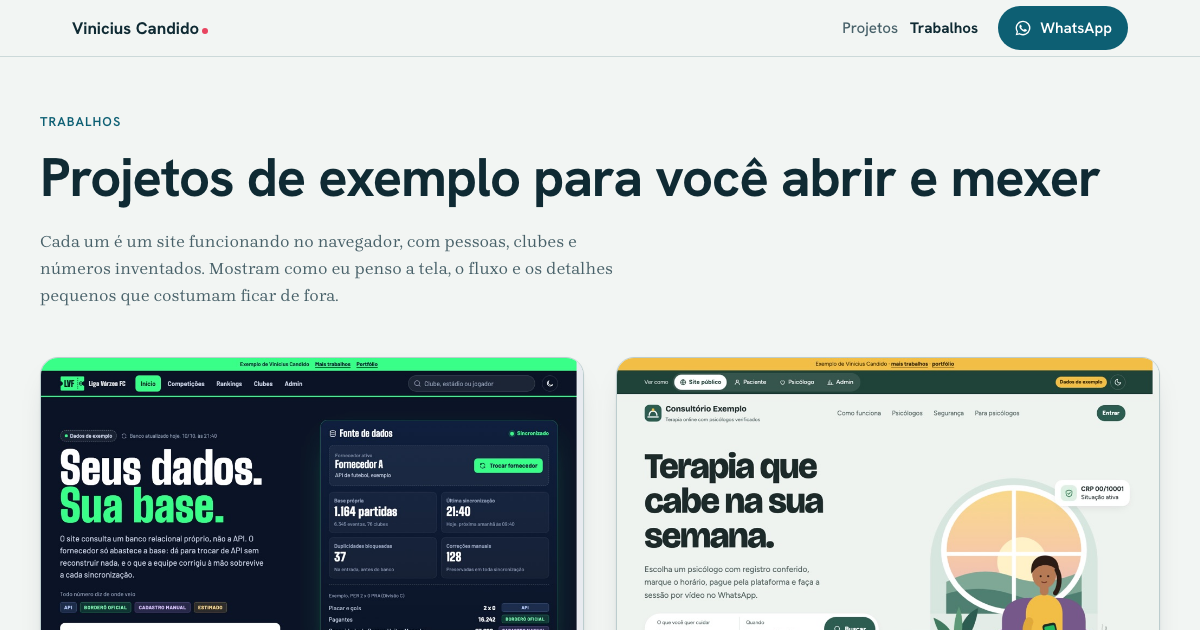
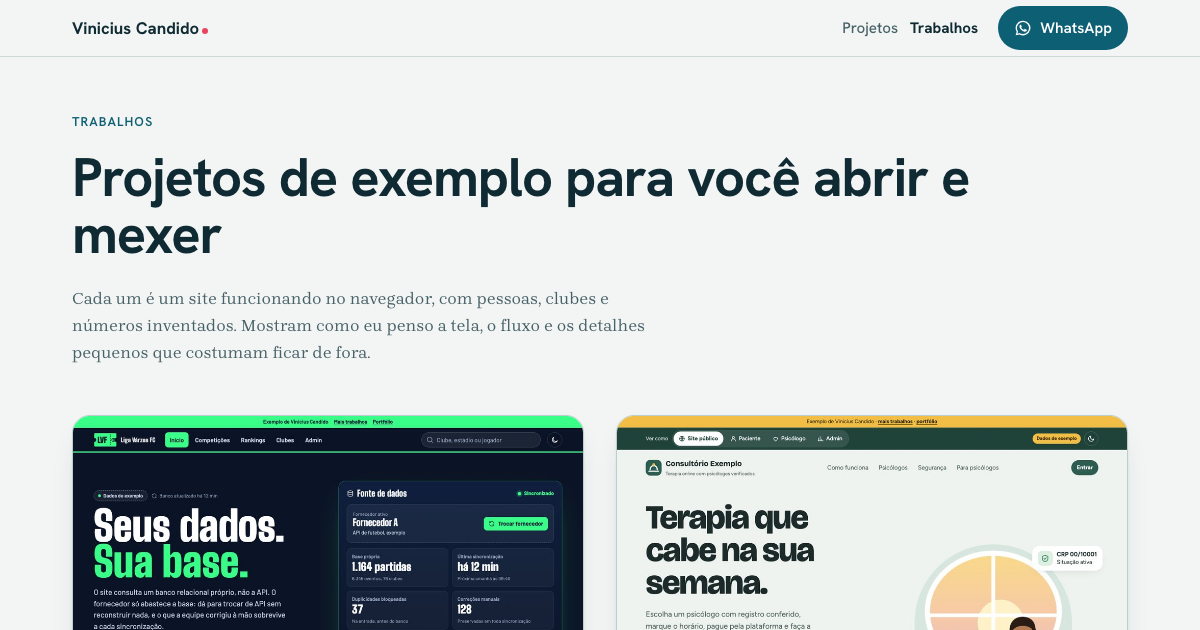
fix(trabalhos): WhatsApp do consultório como faixa sempre visível, CRP dos cartões pela regra única, og da página geral regerado

diff --git a/public/trabalhos/consultorio-exemplo/index.html b/public/trabalhos/consultorio-exemplo/index.html
@@ -644,6 +644,14 @@ html.trocando body{touch-action:none;pointer-events:none}
 }
 @media(max-width:959px) and (prefers-reduced-motion:reduce){html{scroll-behavior:auto}}
 @media(prefers-reduced-motion:reduce){#view,.filters,.sh-bg{transition:none!important}}
+/* WhatsApp do desenvolvedor como faixa fixa, sempre visível, com espaço reservado no fim do conteúdo (nada passa por baixo do botão) */
+.dev,.dev:hover{left:0;right:0;bottom:0;transform:none;width:auto;height:52px;border-radius:0;justify-content:center;padding:0 16px;gap:12px;box-shadow:0 -8px 24px -14px rgba(0,0,0,.5)}
+.dev::before{display:none}
+.dev>span:last-child{display:block!important}
+.dev .wa-c{width:36px;height:36px}
+body{padding-bottom:calc(var(--barra,0px) + 64px + env(safe-area-inset-bottom))}
+@media(max-width:700px){.dev,.dev:hover{left:0;right:0;bottom:calc(var(--barra) + env(safe-area-inset-bottom));height:44px;padding:0 12px;gap:10px}
+ .dev .wa-c{width:32px;height:32px}.dev small{display:none}.toast{bottom:calc(var(--barra) + 64px + env(safe-area-inset-bottom))!important}}
 </style>
 <script>(function(c,l,a,r,i,t,y){c[a]=c[a]||function(){(c[a].q=c[a].q||[]).push(arguments)};t=l.createElement(r);t.async=1;t.src="https://www.clarity.ms/tag/"+i;y=l.getElementsByTagName(r)[0];y.parentNode.insertBefore(t,y);})(window,document,"clarity","script","yvd0mxjdrs");clarity("set","pagina","trabalho-consultorio-exemplo");</script>
 </head>
@@ -909,9 +917,9 @@ const PRO_ART=f=>{const a=Math.round(2*Math.PI*70*(100-f)/100);return `<svg view
 function cardPsi(p){
   return `<article class="pcard">
    <div class="pcard-top" style="background:${BG[p.av.b]}">${avatar(p.av,false)}
-     <span class="crp" title="Última conferência automática: 0${(p.id%5)+3}/10/2026">${ic('shieldc')}CRP verificado</span><span class="price">${brl(p.preco)}</span></div>
+     <span class="crp" title="Última conferência automática: ${CRP_REGRA.ultima}">${ic('shieldc')}CRP verificado</span><span class="price">${brl(p.preco)}</span></div>
    <div class="pcard-b">
-     <div><h3>${p.nome}</h3><div class="meta">${p.ab} · ${p.crp} · ${p.anos} anos de prática</div><div class="meta" style="font-size:13px">Registro conferido em 0${(p.id%5)+3}/10/2026</div></div>
+     <div><h3>${p.nome}</h3><div class="meta">${p.ab} · ${p.crp} · ${p.anos} anos de prática</div><div class="meta" style="font-size:13px">Registro conferido em ${CRP_REGRA.ultima}</div></div>
      <div class="rate">${stars(p.nota)}<b>${p.nota.toFixed(1).replace('.',',')}</b><span class="meta">(${p.n} avaliações)</span></div>
      <p class="quote">${p.q}</p>
      <div class="chips">${p.temas.map(t=>`<span class="chip">${t}</span>`).join('')}</div>
@@ -920,7 +928,7 @@ function cardPsi(p){
    </div></article>`;
 }
 function filtered(){const f=S.filt;return PSIS.filter(p=>(!f.ab||p.ab===f.ab)&&(!f.tema||p.temas.includes(f.tema))&&p.preco<=f.max&&(!f.turno||p.turnos.includes(f.turno)))}
-function renderCards(){const l=filtered();{const ok=$('#f-ok');if(ok)ok.textContent=l.length?`Ver ${l.length} ${l.length===1?'psicólogo':'psicólogos'}`:'Nenhum resultado, ajuste os filtros';const fn=$('#f-n'),k=[S.filt.ab,S.filt.tema,S.filt.turno].filter(Boolean).length+(S.filt.max<200?1:0);if(fn)fn.textContent=k?` (${k})`:''}$('#count').textContent=`${l.length} ${l.length===1?'psicólogo encontrado':'psicólogos encontrados'}`;
+function renderCards(){const l=filtered();{const ok=$('#f-ok');if(ok)ok.textContent=l.length?`Ver ${l.length} ${l.length===1?'psicólogo':'psicólogos'}`:'Nenhum resultado, ajuste os filtros';const fn=$('#f-n'),k=[S.filt.ab,S.filt.tema,S.filt.turno].filter(Boolean).length+(S.filt.max<200?1:0);if(fn)fn.textContent=k?` (${k})`:''}$('#count').textContent=`${l.length} de 57 psicólogos (perfis de exemplo)`;
   $('#cards').innerHTML=l.length?l.map(cardPsi).join(''):`<div class="empty" style="grid-column:1/-1"><b>Nenhum perfil com esses filtros.</b><p class="meta mt">Aumente o valor máximo ou tire o filtro de horário.</p><button class="btn btn-g btn-sm mt" id="clr">Limpar filtros</button></div>`}
 const abs=[...new Set(PSIS.map(p=>p.ab))],temas=[...new Set(PSIS.flatMap(p=>p.temas))].sort();
 
@@ -1272,7 +1280,7 @@ function psi(){
     const prox=lista.find(c=>c.h>HOJE.agora);
     const mins=prox?(+prox.h.slice(0,2)*60+ +prox.h.slice(3))-(+HOJE.agora.slice(0,2)*60+ +HOJE.agora.slice(3)):0;
     b=`<h2 class="ttl">Consultas de hoje</h2><p class="lead">${cap1(NSEM[wdN(HOJE.d)])}, ${HOJE.d} de outubro. Pacientes identificados só pelo primeiro nome e inicial.</p>
-    <div class="grid-k"><div class="kpi hl"><span>${ic('today')}Hoje</span><b>${lista.length} sessões</b><small>${pagas} pagas</small></div><div class="kpi"><span>${ic('clock')}Próxima</span><b>${prox?prox.h:'—'}</b><small>${prox?'em '+mins+' min':''}</small></div><div class="kpi"><span>${ic('wallet')}A receber hoje</span><b>${brl(me.preco*pagas*(100-fee)/100)}</b><small>já descontada a taxa</small></div><div class="kpi"><span>${ic('star')}Sua média</span><b>${me.nota.toFixed(1).replace('.',',')}</b><small>${me.n} avaliações</small></div></div>
+    <div class="grid-k"><div class="kpi hl"><span>${ic('today')}Hoje</span><b>${lista.length} sessões</b><small>${pagas} pagas</small></div><div class="kpi"><span>${ic('clock')}Próxima</span><b>${prox?prox.h:'—'}</b><small>${prox?'em '+mins+' min':''}</small></div><div class="kpi"><span>${ic('wallet')}Gerado hoje</span><b>${brl(me.preco*pagas*(100-fee)/100)}</b><small>cai em ${ddmm(proxSex(HOJE.d))} · já descontada a taxa</small></div><div class="kpi"><span>${ic('star')}Sua média</span><b>${me.nota.toFixed(1).replace('.',',')}</b><small>${me.n} avaliações</small></div></div>
     <div class="panel mt"><div class="list">${lista.map((c,i)=>`<div class="row"><b style="font-family:var(--f-d);font-size:22px;min-width:64px">${c.h}</b>${avatar({s:i+1,h:i,b:i+2,c:i+1,hair:i%5})}<div class="grow"><b>${c.pac}</b><small>${c.pg==='pendente'?'Aguardando pagamento':tipoC(c)}</small></div>
      ${c.pg==='pendente'?`<span class="pill p-warn">Aguardando pagamento</span>`:`<button class="btn btn-wa btn-sm" data-wa-psi="${c.pac}">${WA}Abrir no WhatsApp</button><button class="btn btn-g btn-sm" data-done>${ic('check')}Realizada</button>`}</div>`).join('')}</div></div>`;
   }
@@ -1296,7 +1304,7 @@ function psi(){
     const UL=CONSULTAS.filter(c=>c.psi===1&&c.st==='realizada'&&c.d<HOJE.d).sort((a,b)=>-ordC(a,b))[0];
     const crit=['Chegou no horário','Respeitou os combinados','Conexão estável'];
     b=S.ratedPsi?`<div class="panel done"><div class="big-ic">${ic('check')}</div><h3>Avaliação registrada</h3><p>Fica visível só para a equipe da plataforma. Ajuda a cuidar de faltas, atrasos e problemas de conexão.</p><button class="btn btn-g" data-tab="hoje">Voltar às consultas</button></div>`
-    :`<h2 class="ttl">Avaliar o paciente</h2><p class="lead">Sessão de ontem, ${ddmm(UL.d)} às ${UL.h}, com ${UL.pac}. Avaliação interna, o paciente não vê.</p>
+    :`<h2 class="ttl">Avaliar o paciente</h2><p class="lead">Sessão de ontem, ${ddmm(UL.d)} às ${UL.h}, com ${UL.pac}${UL.pac.endsWith('.')?'':'.'} Avaliação interna, o paciente não vê.</p>
     <div class="alert info" style="margin-bottom:14px">${ic('lock')}<span><b>Só aparecem aqui sessões realizadas</b><small>As ${CONSULTAS.filter(c=>c.psi===1&&c.d===HOJE.d&&ativa(c)).length} sessões de hoje liberam a avaliação quando você marcar como realizadas.</small></span></div>
     <div class="panel"><div class="list">${crit.map((c,i)=>`<div class="row"><div class="grow"><b>${c}</b></div><div class="pay-t" style="margin:0;flex:0 0 auto"><button data-yn="${i}-s" aria-pressed="${(S.yn||{})[i]==='s'}">${ic('check')}Sim</button><button data-yn="${i}-n" aria-pressed="${(S.yn||{})[i]==='n'}">${ic('x')}Não</button></div></div>`).join('')}</div>
     <label class="fld mt">Observação para a equipe (sem conteúdo clínico)<textarea rows="3" placeholder="Ex.: entrou 15 minutos atrasado e pediu para remarcar"></textarea></label>
@@ -1398,7 +1406,7 @@ function trocar(f,jaTravado){
   fechaFiltros(true);
   if(REDUCED){f();topo();focaTitulo();soltar();return}
   travar();const t=setTimeout(soltar,1200);const fim=()=>{clearTimeout(t);soltar()};
-  if(document.startViewTransition){const v=document.startViewTransition(()=>{f();topo()});if(v.ready)v.ready.catch(()=>{});v.updateCallbackDone.then(focaTitulo,focaTitulo);v.finished.then(fim,fim)}
+  if(document.startViewTransition){const v=document.startViewTransition(()=>{f();topo()});if(v.ready)v.ready.catch(()=>{});v.updateCallbackDone.then(focaTitulo,focaTitulo).catch(()=>{});v.finished.then(fim,fim).catch(()=>{})}
   else{view.classList.add('sai');setTimeout(()=>{f();topo();view.classList.remove('sai');focaTitulo();setTimeout(fim,320)},140)}
 }
 function vt(f){trocar(f)}
@@ -1492,8 +1500,8 @@ render();
 })();
 /* no celular, o WhatsApp flutuante some enquanto o formulário de busca está na tela, para nunca cobrir o botão Buscar */
 (function(){const d=document.querySelector('.dev');if(!d)return;d.style.transition='opacity .2s';
-function chk(){const f=document.querySelector('.finder'),ft=document.querySelector('footer');let h=false;if(f&&innerWidth<700){const r=f.getBoundingClientRect();h=r.bottom>0&&r.top<innerHeight}if(ft){const r=ft.getBoundingClientRect();if(r.top<innerHeight-10&&r.bottom>0)h=true}
-  if(!h){const r=d.getBoundingClientRect();for(const fx of [.12,.5,.88])for(const fy of [.12,.5,.88]){const x=r.left+r.width*fx,y=r.top+r.height*fy;if(document.elementsFromPoint(x,y).some(e=>!d.contains(e)&&e.matches&&e.matches('.pill,button,a,td,th,b,small,input,select,textarea,h1,h2,h3,li,.kpi,.row,.tb,.wk')))h=true}}d.style.opacity=h?'0':'';d.style.pointerEvents=h?'none':''}
+function chk(){const f=document.querySelector('.finder'),ft=document.querySelector('footer'),dr=d.getBoundingClientRect(),ov=r=>Math.min(r.bottom,dr.bottom)-Math.max(r.top,dr.top)>10;let h=false;if(f&&ov(f.getBoundingClientRect()))h=true;if(ft&&ov(ft.getBoundingClientRect()))h=true
+  d.style.opacity=h?'0':'';d.style.pointerEvents=h?'none':''}
 addEventListener('scroll',chk,{passive:true});addEventListener('resize',chk);d.style.transition='opacity .15s';new MutationObserver(chk).observe(document.getElementById('view')||document.body,{childList:true,subtree:true});chk()})();
 </script>
 <script defer src="https://static.cloudflareinsights.com/beacon.min.js" data-cf-beacon='{"token": "5cf570991ace4598819c22a1718848e0"}'></script>

diff --git a/public/trabalhos/liga-varzea/index.html b/public/trabalhos/liga-varzea/index.html
@@ -1810,7 +1810,7 @@ V.admin=function(){usa("C");
   '<div class="card pad"><h3 style="margin-bottom:12px">Partidas sem borderô</h3><div class="tw"><table><thead><tr><th class="l">Partida</th><th>Rodada</th><th class="l">Estádio</th><th class="l">Situação</th></tr></thead><tbody>'+sem.map(function(m){return '<tr><td class="l"><a class="lnk" href="#/partida/'+m.id+'">'+esc(m.h.nome)+' '+m.gh+' x '+m.ga+' '+esc(m.a.nome)+'</a></td><td>'+m.r+'</td><td class="l">'+esc(m.est.nome)+'</td><td class="l"><span class="tag al">'+(m.r===18?"Aguardando federação":"Cobrado da federação")+'</span>'+(m.estim?' <span class="tag" title="Público divulgado pelo clube">~'+n(m.estim)+' estimado</span>':'')+'</td></tr>';}).join("")+'</tbody></table></div></div>'+
  '</div><aside class="grid">'+
   '<div class="card pad"><div style="display:flex;gap:12px;align-items:center;margin-bottom:8px">'+ico("sync","width:24px;height:24px")+'<h3>Log de sincronização</h3></div><ul class="log">'+
-   [["há 12 min","#13804A","Partidas da rodada 18","5 jogos atualizados, 1 sem borderô"],["há 12 min","#E0A800","Borderôs","3 PDFs lidos, 1 divergência de público"],["há 40 min","#C42A36","Erro tratado: API externa","Requisição recusada (429, limite do plano) ao buscar a súmula da rodada 18. A nova tentativa, 15 minutos depois, funcionou; 1 partida ficou para reprocessar.","reproc"],["há 6 h","#13804A","Elencos","20 clubes, 4 inscrições novas"],["ontem 21:40","#13804A","Classificação","Recalculada após 2 correções"],["ontem 15:40","#C42A36","API externa","Tempo esgotado, nova tentativa às 15:55 com sucesso"],["ontem 09:40","#13804A","Partidas da rodada 17","10 jogos atualizados"]].map(function(x){return '<li><time>'+x[0]+'</time><span class="dot" style="background:'+x[1]+'"></span><div><b>'+x[2]+'</b><div class="small muted">'+x[3]+'</div>'+(x[4]?'<button class="btn gh sm" id="reproc" type="button" style="margin-top:8px">'+ico("sync","width:16px;height:16px")+'Reprocessar rodada 18</button>':'')+'</div></li>';}).join("")+'</ul>'+
+   [["há 12 min","#13804A","Partidas da rodada 18","5 jogos atualizados, 1 sem borderô"],["há 12 min","#E0A800","Borderôs","3 PDFs lidos, 1 divergência de público"],["há 40 min","#C42A36","Erro tratado: API externa","Requisição recusada (429, limite do plano) ao buscar a súmula da rodada 18. A nova tentativa, 15 minutos depois, funcionou e a sincronização terminou há 12 min; 1 partida ficou para reprocessar.","reproc"],["há 6 h","#13804A","Elencos","20 clubes, 4 inscrições novas"],["ontem 21:40","#13804A","Classificação","Recalculada após 2 correções"],["ontem 15:40","#C42A36","API externa","Tempo esgotado, nova tentativa às 15:55 com sucesso"],["ontem 09:40","#13804A","Partidas da rodada 17","10 jogos atualizados"]].map(function(x){return '<li><time>'+x[0]+'</time><span class="dot" style="background:'+x[1]+'"></span><div><b>'+x[2]+'</b><div class="small muted">'+x[3]+'</div>'+(x[4]?'<button class="btn gh sm" id="reproc" type="button" style="margin-top:8px">'+ico("sync","width:16px;height:16px")+'Reprocessar rodada 18</button>':'')+'</div></li>';}).join("")+'</ul>'+
   '<div class="small" style="margin-top:12px;display:flex;justify-content:space-between"><span class="muted">Requisições do plano hoje</span><b>412 de 1.000</b></div><div class="ocup" style="margin-top:6px"><i style="width:41.2%"></i></div>'+
   '<button class="btn gh sm" style="margin-top:12px" id="syncnow">'+ico("sync","width:16px;height:16px")+'Sincronizar agora</button></div>'+
   '<div class="card pad"><div style="display:flex;gap:12px;align-items:center;margin-bottom:8px">'+ico("relogio","width:24px;height:24px")+'<h3>Histórico de alterações</h3></div><ul class="log" id="hist"></ul></div>'+
@@ -1914,7 +1914,7 @@ function trocaTela(){
  function fim(){clearTimeout(t);soltar();}
  if(document.startViewTransition){
   var vt=document.startViewTransition(function(){render();topo();});
-  vt.updateCallbackDone.then(focaTitulo,focaTitulo);vt.finished.then(fim,fim);
+  if(vt.ready)vt.ready.catch(function(){});vt.updateCallbackDone.then(focaTitulo,focaTitulo).catch(function(){});vt.finished.then(fim,fim).catch(function(){});
  }else{
   app.classList.add("sai");
   setTimeout(function(){render();topo();app.classList.remove("sai");focaTitulo();setTimeout(fim,320);},140);
